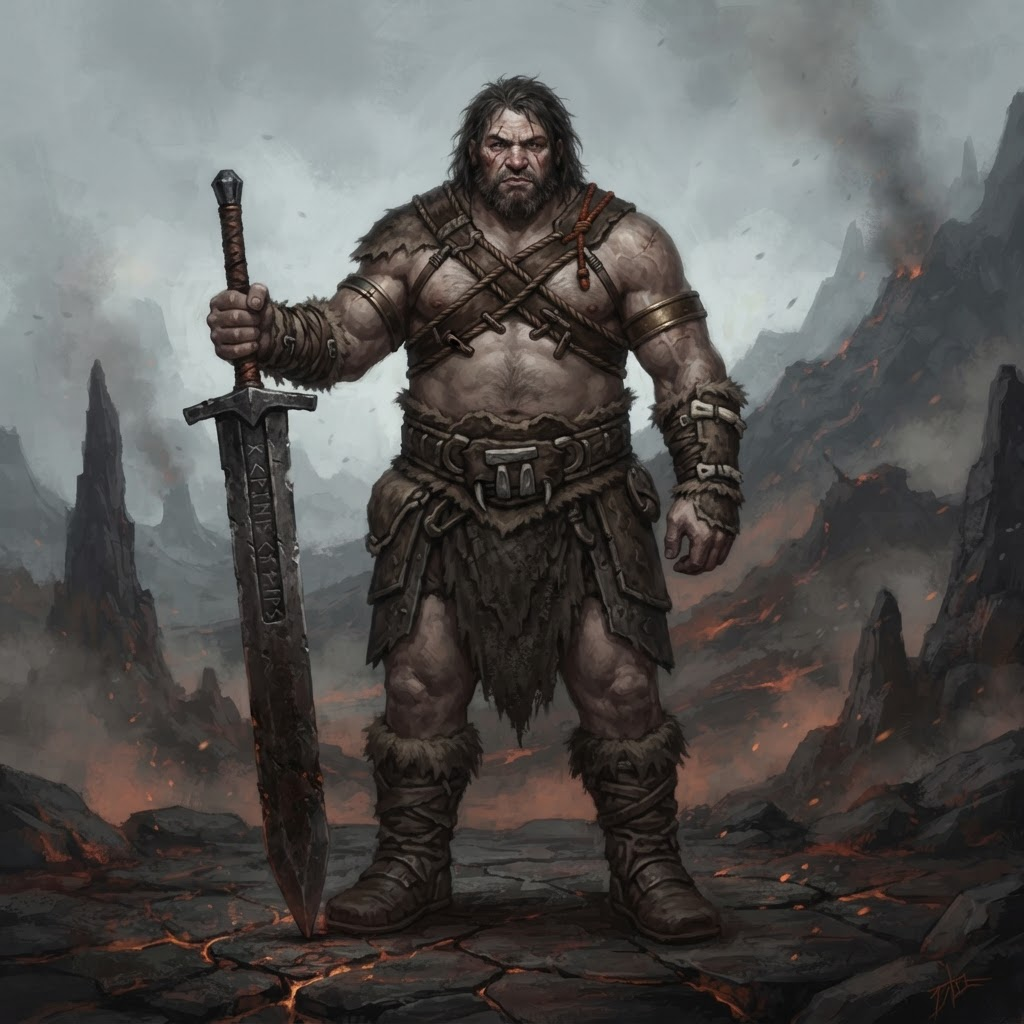
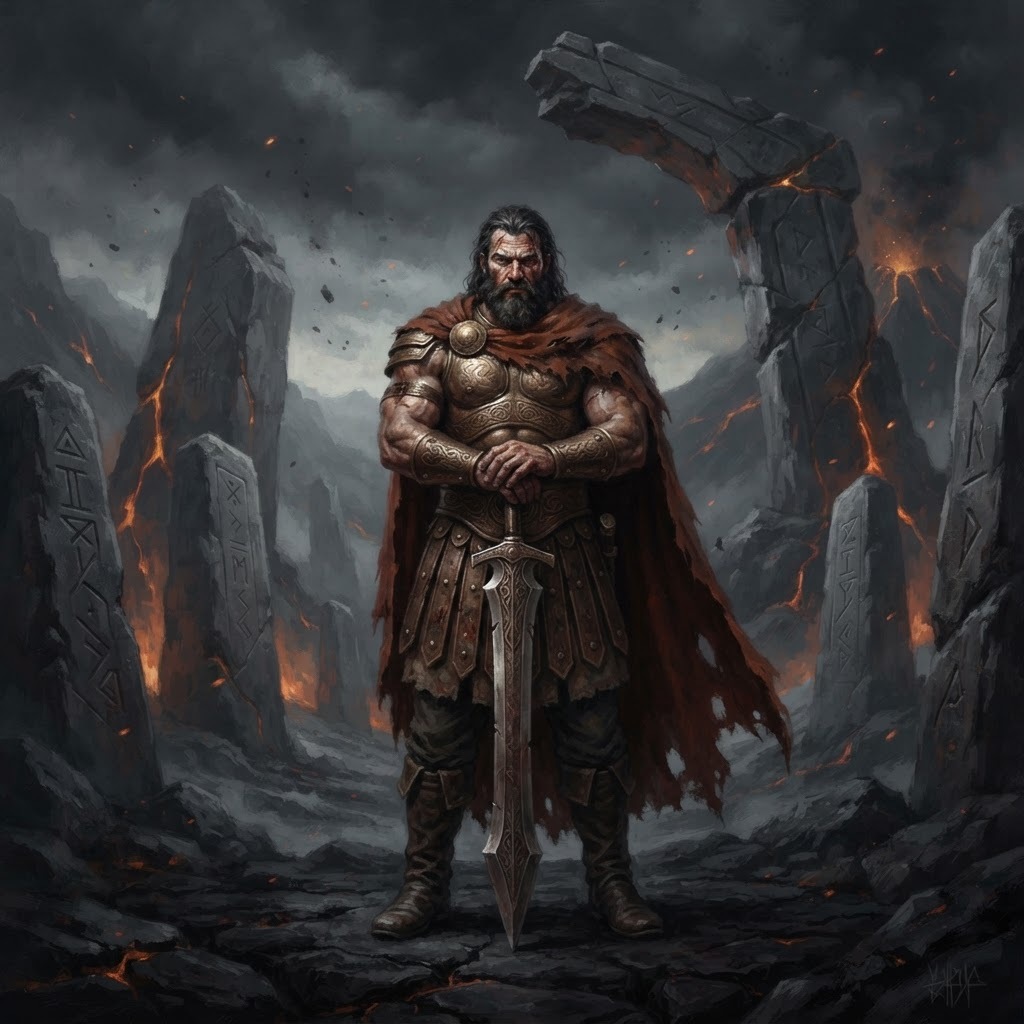
RAVAGER M V3 CANON LOCKED (Big: 'ravager approved aswell') — mythic Ashfall canon; Warden M next

diff --git a/docs/ROSTER-PASS-STATUS.md b/docs/ROSTER-PASS-STATUS.md
@@ -300,4 +300,5 @@ Full pass order: 12 god-emergence re-rolls (6 realms x King+Queen) → Luminary 
 
 - VEILBORN V1 REJECTED (Sept 8 ~4:43 PM, Big: weapons don't match — mismatched pair + an extra belt blade that shouldn't exist). KIT-INTEGRITY LAW added to class art: the class kit renders EXACTLY as designed (Veilborn = matched twin blades and NOTHING else — matched pairs must match; no extra/backup weapons on the body). V2 re-rolled under the law; V3 re-rolled fresh (matched twin blades, one low + one sheathed, empty belt, stair's-foot composition) — CANON LOCKED Sept 8 ~5:20 PM (Big: 'Yeah I approved it earlier'): art/approved/CLASS-VEILBORN-CANON.png. Queue advances: WEAVER (Marenth) next, then Wildborn.
 
-- VERA RENAME (Sept 8 ~7:39 PM, Big: 'Maeve new name is also Vera'): the lorekeeper NPC Maev is now VERA — name updated across live docs (CAMELOT-CREATURES-AND-MAGIC.md, campaign lore); archives keep historical mentions. Pending V2 art file renamed art/pending/NPC-VERA-V2-MYTHIC-CELTIC-FROSTHALL.png. The V2 mythic-Celtic re-roll is still in his court awaiting its verdict.
+- VERA RENAME (Sept 8 ~7:39 PM, Big: 'Maeve new name is also Vera'): the lorekeeper NPC Maev is now VERA — name updated across live docs (CAMELOT-CREATURES-AND-MAGIC.md, campaign lore); archives keep historical mentions. Pending V2 art file renamed art/pending/NPC-VERA-V2-MYTHIC-CELTIC-FROSTHALL.png. The V2 mythic-Celtic re-roll is still in his court awaiting its verdict.- RAVAGER M V3 CANON LOCKED (Sept 8 ~7:45 PM, Big: 'ravager approved aswell') — art/approved/CLASS-RAVAGER-CANON.png swapped to the V3 mythic-world roll (solid engraved breastplate, oxide-red torn mantle, greatsword tip-down, god-scale Ashfall caldera). Male set queue advances: WARDEN M rolls next (Stoneheart mythic world).
+
